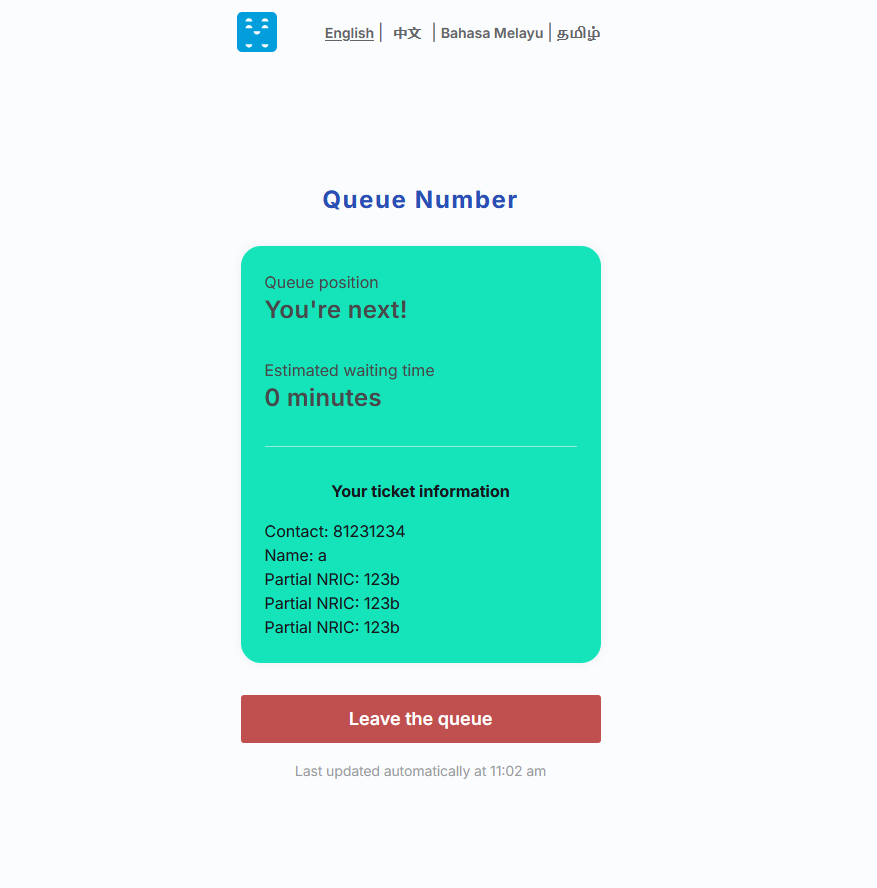
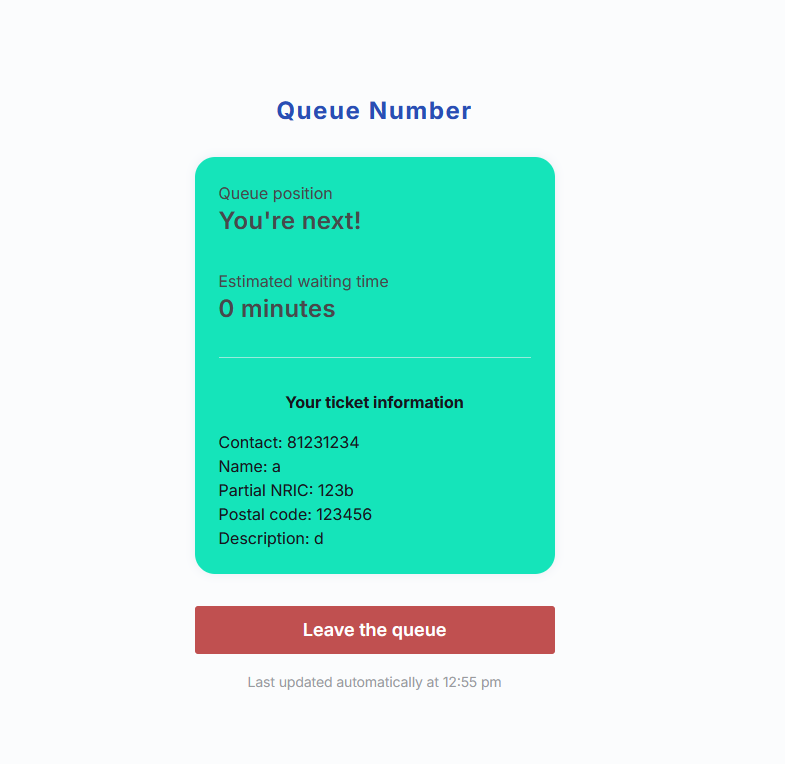
fix bug in ticket display

diff --git a/src/components/Ticket/TicketInfo.tsx b/src/components/Ticket/TicketInfo.tsx
@@ -45,12 +45,12 @@ const TicketInfo = ({ ticket, color }: Props) => {
         ) : null}
         {ticket?.desc?.postalcode ? (
           <Text>
-            {t("field-nric-label")}: {ticket.desc.nric}
+            {t("field-postalcode-label")}: {ticket.desc.postalcode}
           </Text>
         ) : null}
         {ticket?.desc?.description ? (
           <Text>
-            {t("field-nric-label")}: {ticket.desc.nric}
+            {t("field-description-label")}: {ticket.desc.description}
           </Text>
         ) : null}
       </Flex>
